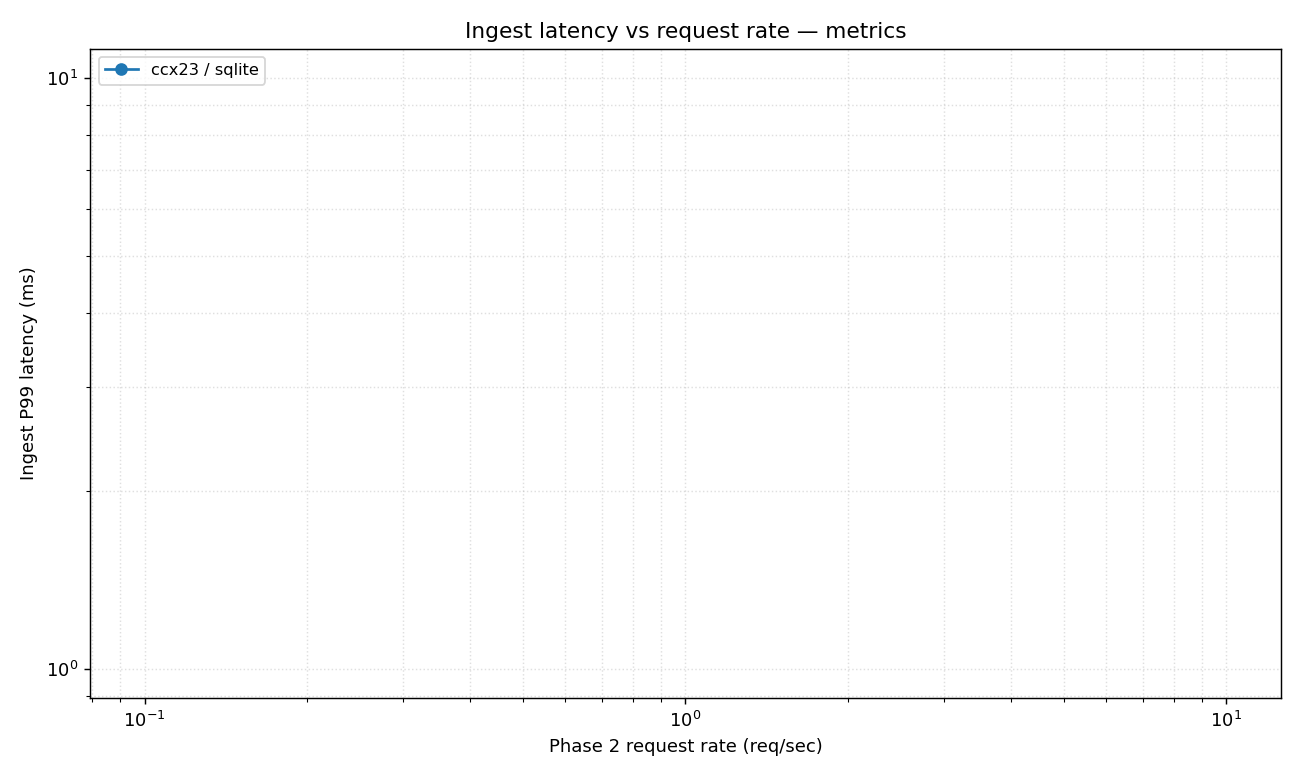
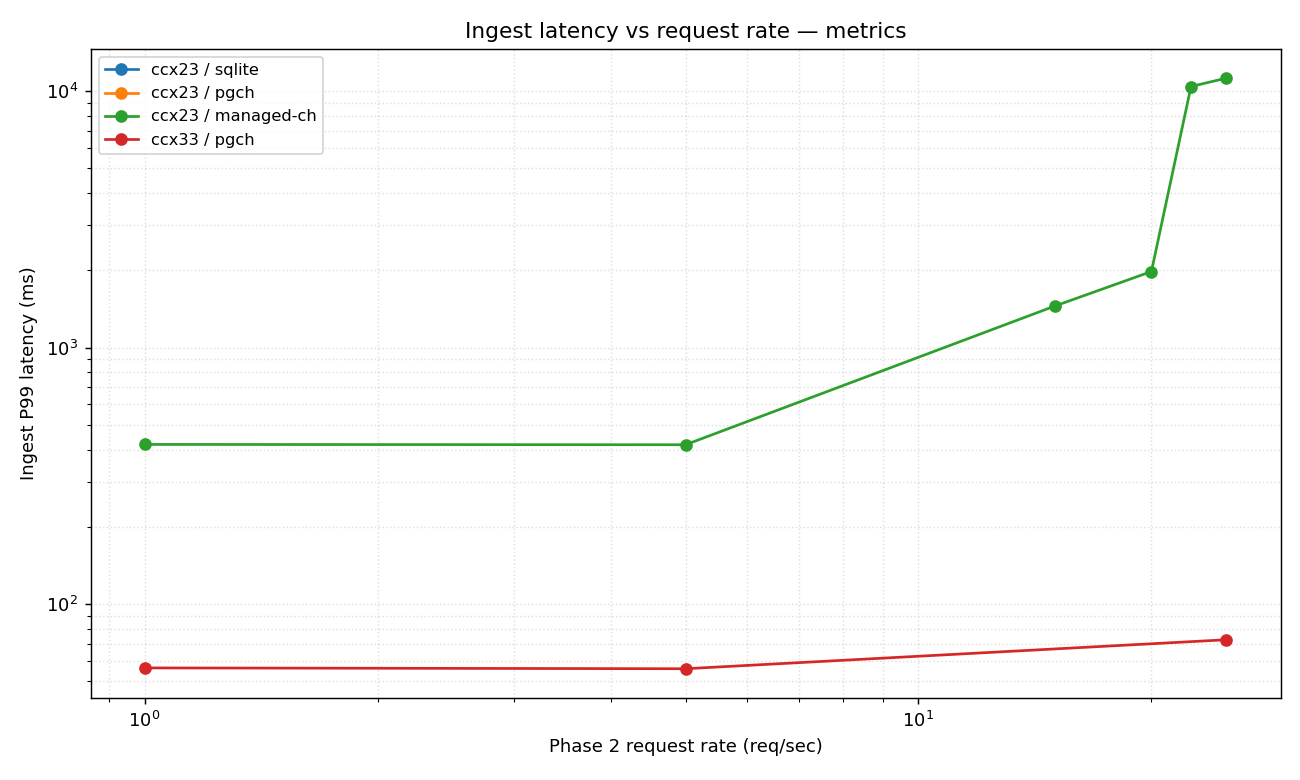
bench: hardware benchmark 2026-05-17

diff --git a/benchmarks/results/2026-05-17/summary.md b/benchmarks/results/2026-05-17/summary.md
@@ -1,6 +1,6 @@
 # Traceway hardware benchmark — summary
 
-Runs analyzed: 1
+Runs analyzed: 4
 
 ## Throughput scenario
 
@@ -8,8 +8,11 @@ Failure threshold: combined HTTP error rate + OTLP rejected items > 5% of attemp
 
 ### Metrics
 
-| Tier | Mode | Max data points/sec | Phase 1 max batch | Phase 2 max req/sec | Ingest P99 @ max (ms) |
-|------|------|---------|-------------------|---------------------|------------------------|
-| ccx23 | sqlite | 0 | 1,024 | 0 | 0 |
+| Tier | Mode | Max data points/sec | P1 max batch | P2 max req/sec @ batch | P3 max req/sec @ batch=100 |
+|------|------|---------|--------------|-------------------------|-------------------------------|
+| ccx23 | sqlite | 0 | 1,024 | — | — |
+| ccx23 | pgch | 0 | 16,384 | — | — |
+| ccx23 | managed-ch | 283,187 | 16,384 | 22.5 @ 16,384 | — |
+| ccx33 | pgch | 389,301 | 16,384 | 25 @ 16,384 | — |
 
 Generated by `benchmarks/scripts/chart.py`.
